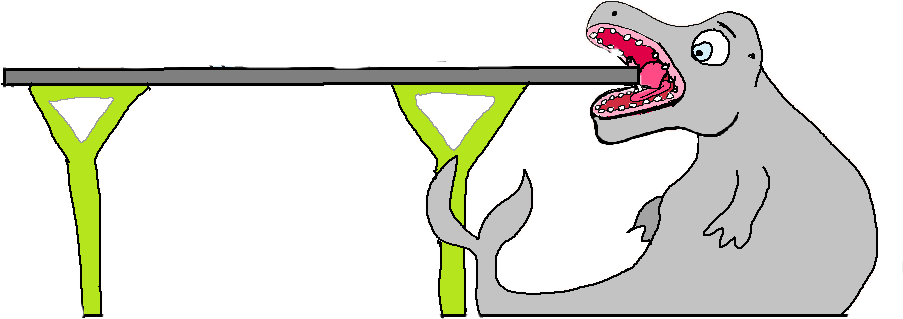
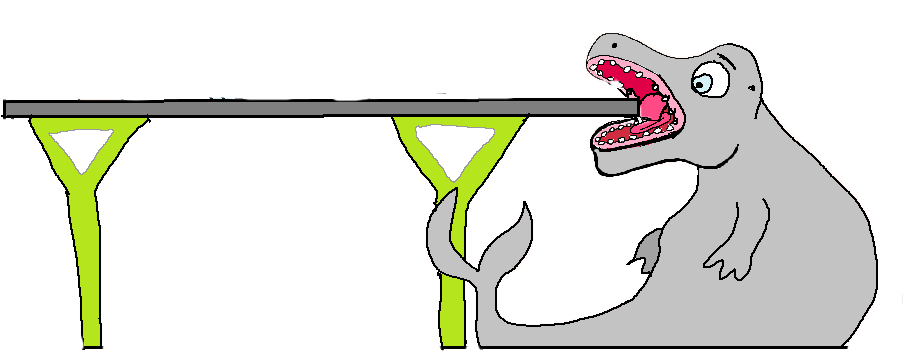
Spill #3  - Added animated picture and a fish
- The animation of the seal is added. 
- A fish is added as a prototype

diff --git a/spill-3.html b/spill-3.html
@@ -1,0 +1,46 @@
+<!DOCTYPE html>
+<html lang="en">
+
+<head>
+    <meta charset="UTF-8" />
+    <meta name="viewport" content="width=device-width, initial-scale=1.0" />
+
+    <!-- Customized CSS -->
+    <link rel="stylesheet" href="./assets/css/spill-3.css" />
+
+    <!-- Bootstrap 4.4.1 CSS -->
+    <link rel="stylesheet" href="https://stackpath.bootstrapcdn.com/bootstrap/4.4.1/css/bootstrap.min.css"
+        integrity="sha384-Vkoo8x4CGsO3+Hhxv8T/Q5PaXtkKtu6ug5TOeNV6gBiFeWPGFN9MuhOf23Q9Ifjh" crossorigin="anonymous" />
+
+    <!-- Bootstrap JS -->
+    <script src="https://code.jquery.com/jquery-3.4.1.slim.min.js"
+        integrity="sha384-J6qa4849blE2+poT4WnyKhv5vZF5SrPo0iEjwBvKU7imGFAV0wwj1yYfoRSJoZ+n" crossorigin="anonymous">
+    </script>
+    <script src="https://cdn.jsdelivr.net/npm/popper.js@1.16.0/dist/umd/popper.min.js"
+        integrity="sha384-Q6E9RHvbIyZFJoft+2mJbHaEWldlvI9IOYy5n3zV9zzTtmI3UksdQRVvoxMfooAo" crossorigin="anonymous">
+    </script>
+    <script src="https://stackpath.bootstrapcdn.com/bootstrap/4.4.1/js/bootstrap.min.js"
+        integrity="sha384-wfSDF2E50Y2D1uUdj0O3uMBJnjuUD4Ih7YwaYd1iqfktj0Uod8GCExl3Og8ifwB6" crossorigin="anonymous">
+    </script>
+
+    <!-- Main JS -->
+    <script src="./assets/js/spill-3.js" type="module" defer></script>
+
+    <title>Spill #3 - Hjelp Selen</title>
+</head>
+
+<body>
+    <br>
+    <div class="container" style="border-style: solid; padding-top: 15rem;">
+        <div class="row">
+            <div class="col-xl-12">
+                <img src="./assets/img/spill-3/fat-fish.png" alt="" class='item-obj'>
+                <div class="images"></div>
+            </div>
+
+        </div>
+    </div>
+    
+</body>
+
+</html>

diff --git a/assets/js/spill-3.js b/assets/js/spill-3.js
@@ -1,0 +1,40 @@
+const animationSeal = () => {
+    setInterval(() => {
+        const imgArr = ['./assets/img/spill-3/seal-open.png', './assets/img/spill-3/seal-close.png'];
+
+        // Getting the element for the parent class
+        const img = document.querySelector('.images');
+
+        // Creating a new img element
+        const divImg = document.createElement('img');
+
+        // Adding class name for the img element
+        divImg.classList.add('img-seal')
+
+        // Setting the attribute of the img element
+        divImg.setAttribute('src', imgArr[0])
+
+        // Appending from the parent to child element 
+        img.appendChild(divImg);
+
+        const replace = setTimeout(() => {
+            // Replacing the old img to new Img
+            document.querySelector('.img-seal').src = imgArr[1];
+        }, 1500);
+
+        // If setTimeout is true then we want to switch another picture
+        if (replace) {
+            document.querySelector('.img-seal').src = imgArr[0];
+        }
+
+        // We want to make sure it will not reproduce many pictures 
+        if (img.childElementCount > 1) {
+            document.querySelector('.img-seal').remove()
+        }  
+
+    }, 1000)
+}
+
+document.addEventListener('DOMContentLoaded', (e) => {
+    animationSeal();
+})

diff --git a/assets/css/spill-3.css b/assets/css/spill-3.css
@@ -1,0 +1,18 @@
+body {
+    background-color: #f9f4e1 !important;   
+}
+
+.images {
+    position: relative;
+    width: 50rem;
+    right: 1.8%;
+}
+
+.img-seal {
+    width: 70rem;
+}
+
+.item-obj {
+    position:absolute;
+    top: 13%;
+}
